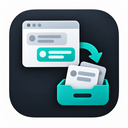
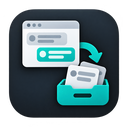
Remove the white export margin from full app artwork

diff --git a/README.md b/README.md
@@ -213,7 +213,7 @@ node --test tests/shadow.test.mjs
 
 Every file is a classic script that assigns itself to `globalThis`; the service worker loads them with `importScripts` and the test suite loads the same files into one `vm` sandbox. There is no bundler and no ES module in the extension.
 
-Selectors stay in `extract.js` so a ChatGPT redesign is a one-file patch. The decision about which stored rows may leave the machine lives in one function, `ChatGPTShadowStore.syncScan`. Full app artwork is preserved in `icons/icon-source.png`; transparent browser-toolbar artwork is in `icons/toolbar-source.png`. The manifest uses `icon-*` for extension listings and `toolbar-*` for the installed toolbar button. Install Pillow (`python3 -m pip install Pillow`), then run `python3 scripts/make-icons.py` to regenerate both sets at 16, 32, 48, and 128 px.
+Selectors stay in `extract.js` so a ChatGPT redesign is a one-file patch. The decision about which stored rows may leave the machine lives in one function, `ChatGPTShadowStore.syncScan`. Full app artwork, with the white outer margin removed and the dark rounded tile retained, is preserved in `icons/icon-source.png`; transparent browser-toolbar artwork is in `icons/toolbar-source.png`. The manifest uses `icon-*` for extension listings and `toolbar-*` for the installed toolbar button. Install Pillow (`python3 -m pip install Pillow`), then run `python3 scripts/make-icons.py` to regenerate both sets at 16, 32, 48, and 128 px.
 
 ---
 
